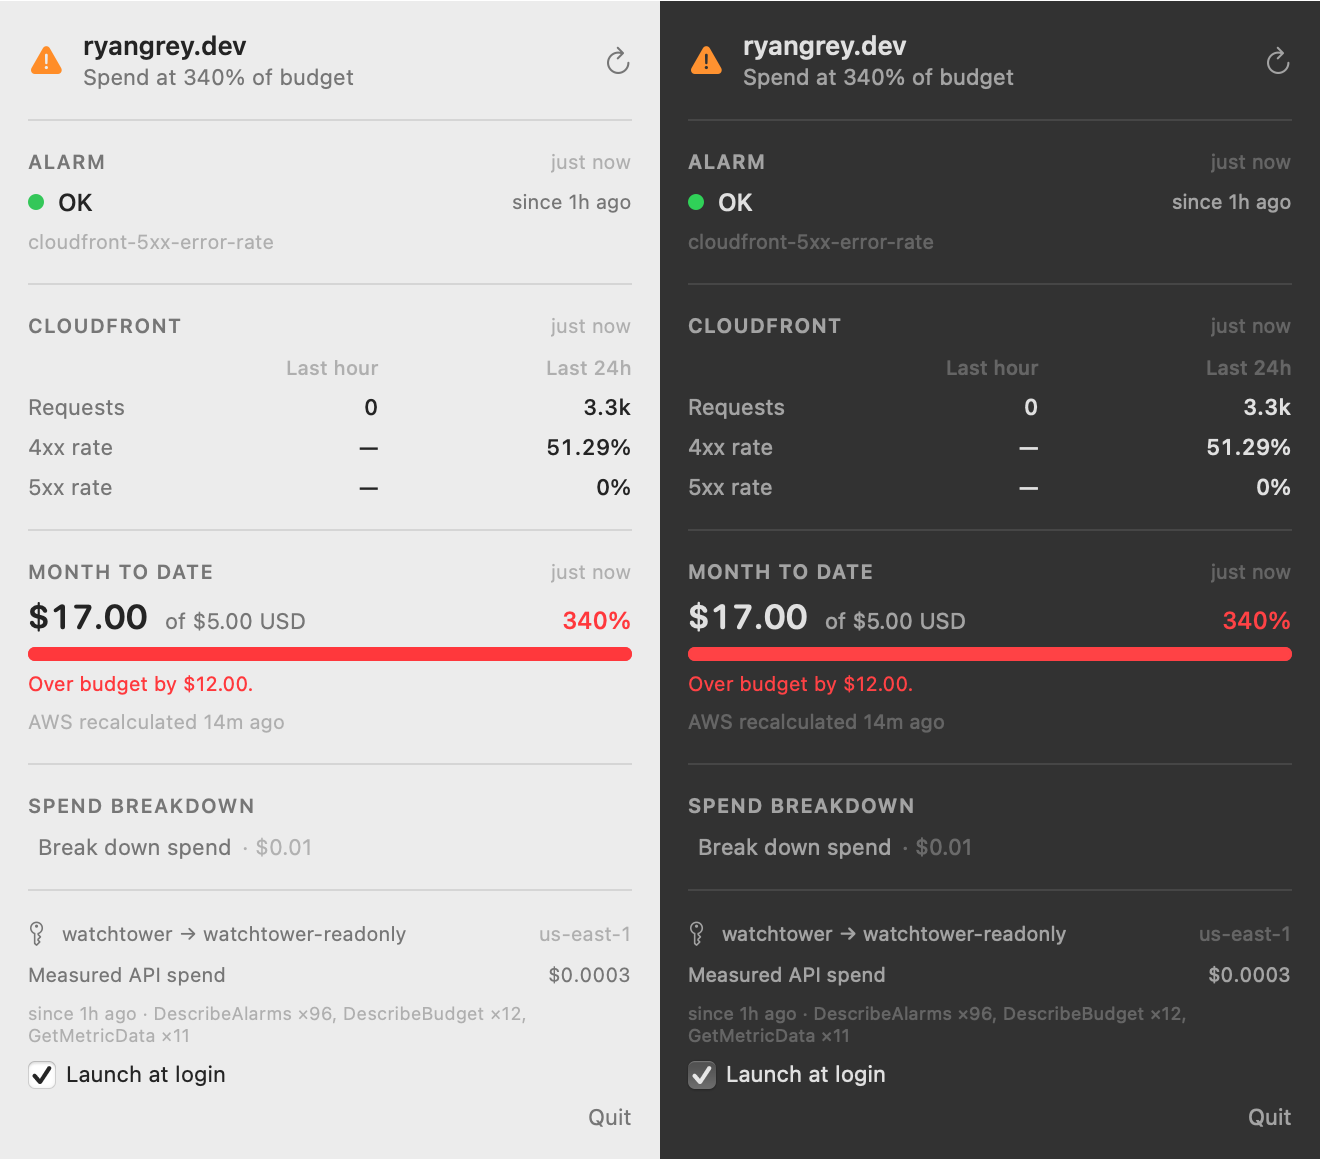
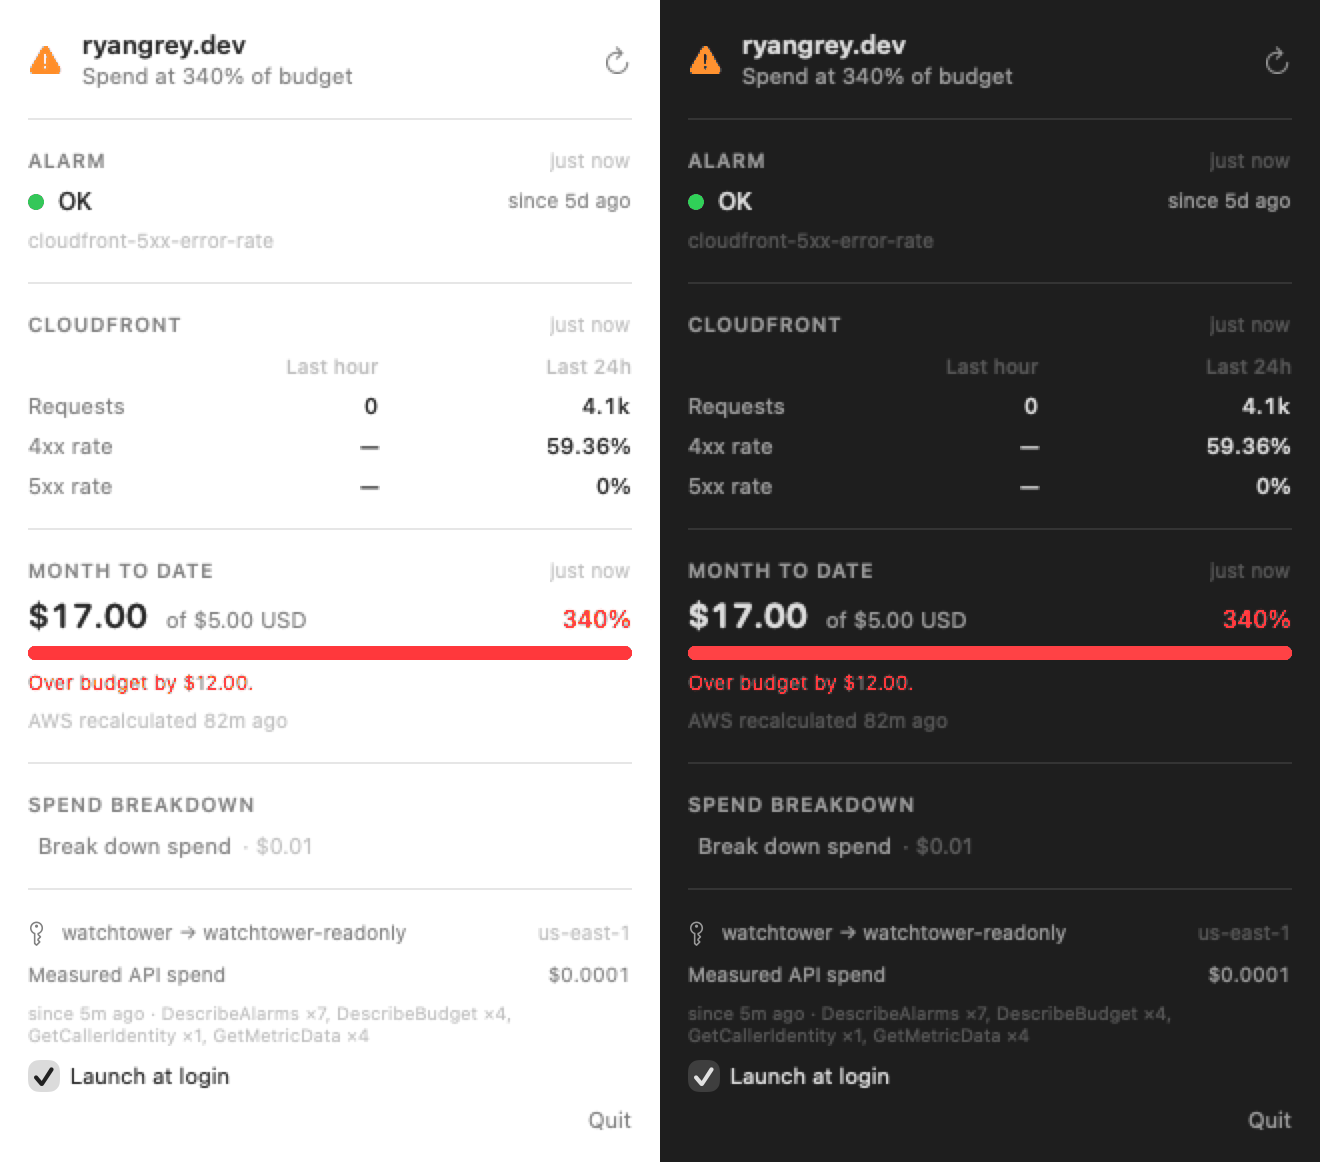
Stop a login item from pointing at a directory that gets deleted
Watchtower had not been running since this morning's system update, and the
reason was not the update. The login item pointed at
/private/tmp/.../scratchpad/Watchtower.app -- a build that had been run once out
of a scratch directory and registered itself on the way past. The directory was
later swept into /private/var/dirs_cleaner/, so both of today's boots tried to
launch a bundle that was not there.

Nothing reported it. System Settings still listed the item and still showed it
enabled; the app was simply never running. That silence is the actual defect:
SMAppService.mainApp.register() registers whatever bundle is running, and nothing
checks that the bundle lives anywhere that will still exist tomorrow.

So LaunchAtLogin now refuses to register from /tmp, /var/folders, dirs_cleaner or
a DerivedData path, and returns a message naming the path instead. Paths are
compared after resolving symlinks, since /tmp is a symlink to /private/tmp and
half the cases would otherwise slip through. Unregistering stays allowed from
anywhere -- that is exactly how you clean up after a temporary copy has captured
the login item.

Adds --login-item status|register|unregister. The panel toggle is the normal way
in, but the one failure worth having a command for leaves the app not running,
and therefore leaves no panel to click. status prints the resolved bundle path,
because "enabled" on its own is precisely what was misleading here.
[…]

diff --git a/Sources/Watchtower/Infra/LoginItemCommand.swift b/Sources/Watchtower/Infra/LoginItemCommand.swift
@@ -1,0 +1,69 @@
+import Foundation
+import ServiceManagement
+
+/// `--login-item status|register|unregister`.
+///
+/// The panel has a toggle for this and that is the normal way in. This exists because the
+/// one failure worth having a command for is a login item that has stopped working, and in
+/// that state the app is not running, so there is no panel to click.
+///
+/// On 2026-08-31 the registration pointed at a build that had been run once out of a scratch
+/// directory. The directory was swept; the login item stayed listed and stayed "enabled";
+/// the app simply never started again. `status` is written to make that visible in one line
+/// rather than requiring a trip through `sfltool dumpbtm`.
+enum LoginItemCommand {
+
+    static func runAndExit(_ verb: String) -> Never {
+        switch verb {
+        case "status":
+            print("Login item")
+            print("  bundle      \(Bundle.main.bundleURL.resolvingSymlinksInPath().path)")
+            print("  identifier  \(Bundle.main.bundleIdentifier ?? "(none)")")
+            print("  status      \(describe(SMAppService.mainApp.status))")
+            if let path = LaunchAtLogin.unstableLocation {
+                print("  location    UNSTABLE — \(path)")
+                print("")
+                print("  This copy is in a directory that gets deleted. Registering it would")
+                print("  produce a login item that works until the sweep and then fails")
+                print("  silently. Move the app to /Applications or ~/Applications first.")
+            } else {
+                print("  location    ok (a permanent directory)")
+            }
+            exit(0)
+
+        case "register":
+            if let problem = LaunchAtLogin.set(true) {
+                FileHandle.standardError.write(Data((problem + "\n").utf8))
+                exit(1)
+            }
+            print("registered: \(Bundle.main.bundleURL.resolvingSymlinksInPath().path)")
+            print("status: \(describe(SMAppService.mainApp.status))")
+            exit(0)
+
+        case "unregister":
+            if let problem = LaunchAtLogin.set(false) {
+                FileHandle.standardError.write(Data((problem + "\n").utf8))
+                exit(1)
+            }
+            print("unregistered")
+            print("status: \(describe(SMAppService.mainApp.status))")
+            exit(0)
+
+        default:
+            FileHandle.standardError.write(
+                Data("usage: --login-item status|register|unregister\n".utf8))
+            exit(2)
+        }
+    }
+
+    private static func describe(_ status: SMAppService.Status) -> String {
+        switch status {
+        case .enabled:        return "enabled"
+        case .notRegistered:  return "not registered"
+        case .notFound:       return "not found"
+        case .requiresApproval:
+            return "requires approval (enable it in System Settings > General > Login Items)"
+        @unknown default:     return "unknown (\(status.rawValue))"
+        }
+    }
+}

diff --git a/Sources/Watchtower/Infra/LaunchAtLogin.swift b/Sources/Watchtower/Infra/LaunchAtLogin.swift
@@ -12,10 +12,48 @@ enum LaunchAtLogin {
         return SMAppService.mainApp.status == .enabled
     }
 
+    /// Directories whose contents do not survive. A login item is a path plus a promise to
+    /// launch it every morning, so registering a bundle sitting in one of these produces a
+    /// login item that works until the directory is swept and then fails silently forever.
+    ///
+    /// This is not hypothetical. On 2026-08-31 the login item pointed at
+    /// `/private/tmp/…/scratchpad/Watchtower.app` — a build that had been run once out of a
+    /// scratch directory and had registered itself on the way past. The directory was later
+    /// swept into `/private/var/dirs_cleaner/`, and from then on every login tried to launch
+    /// a bundle that was not there. Nothing reported it: the login item was still listed and
+    /// still enabled, and the app was simply never running.
+    private static let volatilePrefixes = [
+        "/private/tmp/", "/tmp/",
+        "/private/var/folders/", "/var/folders/",
+        "/private/var/dirs_cleaner/", "/var/dirs_cleaner/",
+        "/private/var/tmp/", "/var/tmp/",
+    ]
+
+    /// Where this bundle actually is, symlinks resolved — `/tmp` is a symlink to
+    /// `/private/tmp`, so comparing the unresolved path would miss half the cases.
+    private static var bundlePath: String {
+        Bundle.main.bundleURL.resolvingSymlinksInPath().path
+    }
+
+    /// Nil when this bundle is somewhere a login item can point at, otherwise why not.
+    static var unstableLocation: String? {
+        let path = bundlePath
+        guard volatilePrefixes.contains(where: { path.hasPrefix($0) })
+            || path.contains("/DerivedData/") else { return nil }
+        return path
+    }
+
     /// Returns nil on success, or a message to show in the panel on failure.
     @discardableResult
     static func set(_ enabled: Bool) -> String? {
         guard isAvailable else { return "Not running from an app bundle" }
+        // Only guards registration. Unregistering from a temporary copy must stay possible —
+        // that is exactly how you clean up after one has captured the login item.
+        if enabled, let path = unstableLocation {
+            return "Not registering: this copy is in a temporary directory that will be "
+                 + "deleted (\(path)). Move the app somewhere permanent — /Applications or "
+                 + "~/Applications — and turn this on from there."
+        }
         do {
             if enabled {
                 try SMAppService.mainApp.register()

diff --git a/Sources/Watchtower/WatchtowerApp.swift b/Sources/Watchtower/WatchtowerApp.swift
@@ -16,6 +16,19 @@ struct WatchtowerApp: App {
     init() {
         let arguments = CommandLine.arguments
 
+        // Login-item management from the terminal. The panel's toggle is the normal way in,
+        // but a login item that has gone wrong is exactly the case where the app is not
+        // running and so the toggle cannot be reached — which is how a stale registration
+        // pointing at a deleted directory survived two reboots unnoticed.
+        //
+        // `status` also prints where the registration would point, because the failure this
+        // exists for is a login item that looks perfectly healthy in System Settings and
+        // names a path that is no longer there.
+        if let index = arguments.firstIndex(of: "--login-item"),
+           arguments.indices.contains(index + 1) {
+            LoginItemCommand.runAndExit(arguments[index + 1])
+        }
+
         // Terminal entry point, checked before any window exists.
         if arguments.contains("--selftest") {
             let profile = arguments.firstIndex(of: "--profile")

diff --git a/README.md b/README.md
@@ -46,8 +46,33 @@ dist/Watchtower.app/Contents/MacOS/Watchtower --selftest --profile default
 `--render` writes at 2x by default (`--scale 1` for 1x); `scripts/optimise-png.py` converts the
 result to an indexed PNG, which is how the screenshot on ryangrey.dev got from 193 KB to 77 KB.
 
-Other entry points: `--preview` (panel in a normal window, light and dark side by side) and
-`--render <path.png>` (draw the panel straight to a PNG, no screen involved).
+Other entry points: `--preview` (panel in a normal window, light and dark side by side),
+`--render <path.png>` (draw the panel straight to a PNG, no screen involved), and
+`--login-item status|register|unregister`.
+
+### Install it somewhere permanent
+
+`dist/` is a build output — `scripts/make-app.sh` deletes it on every build — so it is the
+wrong home for something macOS is meant to launch every morning. Copy the bundle out before
+turning on "Launch at login":
+
+```sh
+ditto --norsrc --noextattr --noacl dist/Watchtower.app ~/Applications/Watchtower.app
+codesign --force --sign - --timestamp=none ~/Applications/Watchtower.app
+~/Applications/Watchtower.app/Contents/MacOS/Watchtower --login-item register
+```
+
+`ditto` rather than `cp -R`: a plain copy carries Finder metadata that makes the re-sign fail
+with "resource fork, Finder information, or similar detritus not allowed".
+
+**Why this has its own command.** A login item is a path plus a promise to launch it every
+morning, and nothing checks that the path still exists. On 2026-08-31 the registration pointed
+at a build that had been run once out of a scratch directory; the directory was later swept,
+and from then on every login tried to launch a bundle that was not there. System Settings
+still listed the item, still showed it enabled, and the app was simply never running — the
+failure is completely silent, which is why `--login-item status` prints the resolved bundle
+path rather than just the status. `LaunchAtLogin` now refuses to register at all from `/tmp`,
+`/var/folders`, `dirs_cleaner` or a `DerivedData` path, and says so instead.
 
 ---
 
